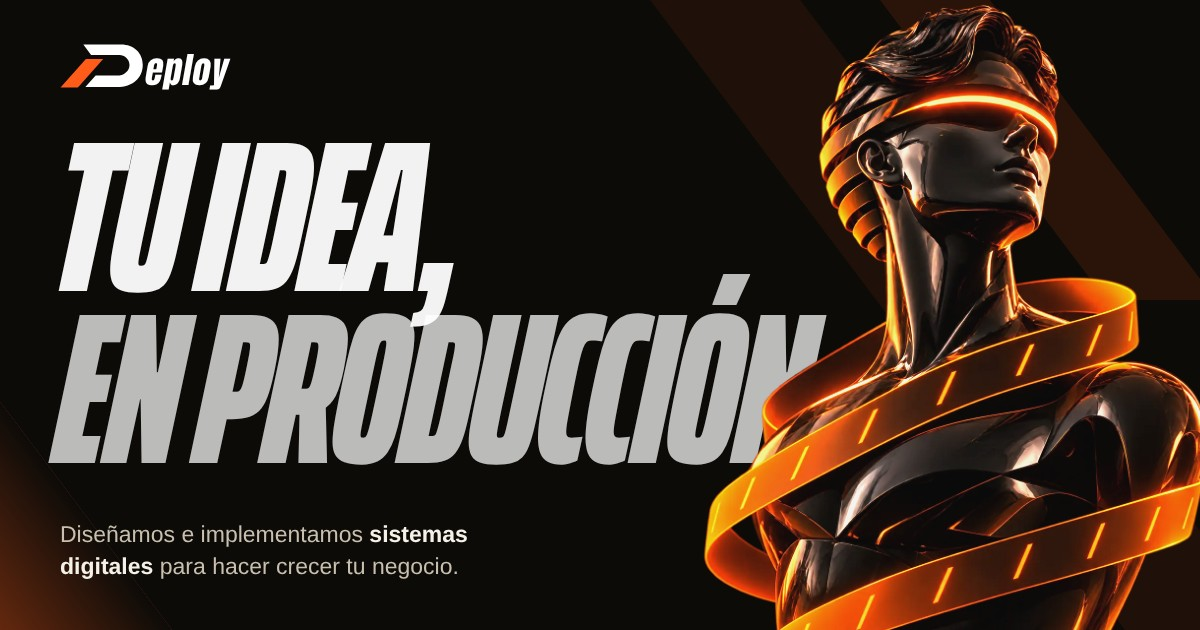
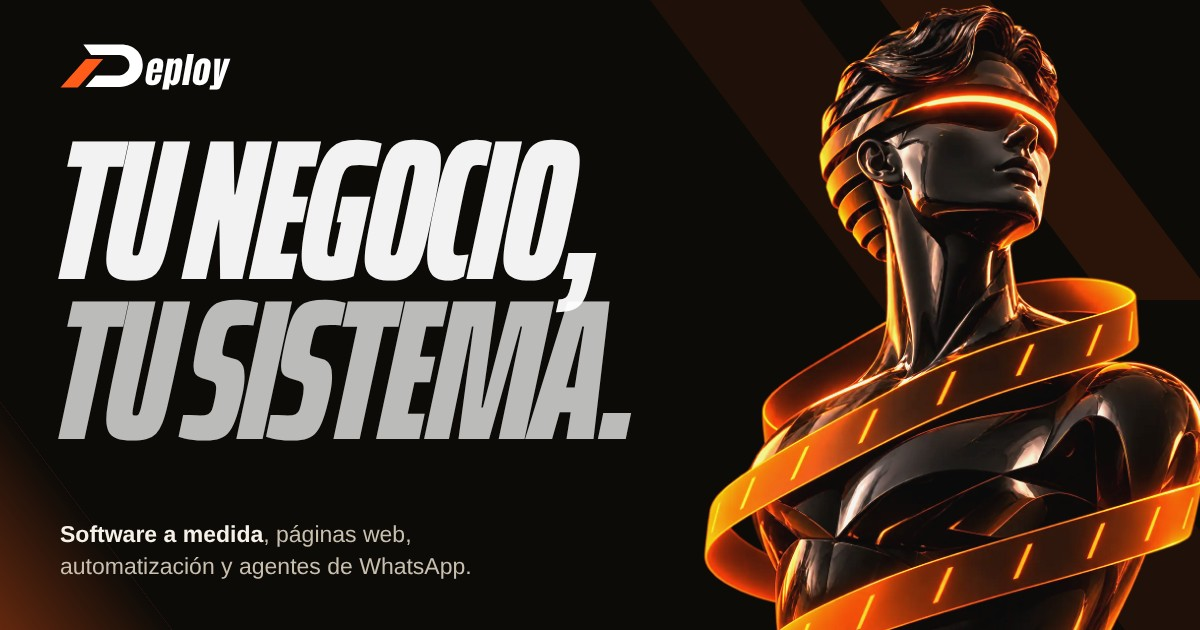
Hero: Tu negocio, tu sistema; imagen para compartir actualizada
Claude-Session: https://claude.ai/code/session_016CR8bjtqut3mFtFLKQPjVK

Changed region(s): [[0.0308, 0.2111, 0.7092, 0.754], [0.0308, 0.8143, 0.4008, 0.9349]]

diff --git a/components/Hero.tsx b/components/Hero.tsx
@@ -56,7 +56,7 @@ export function Hero() {
           transition={{ duration: 0.75, ease, delay: 0.75 }}
           className="block text-white/95"
         >
-          Tu idea,
+          Tu negocio,
         </motion.span>
         <motion.span
           initial="hidden"
@@ -65,10 +65,7 @@ export function Hero() {
           transition={{ duration: 0.75, ease, delay: 0.95 }}
           className="block text-white/75"
         >
-          en
-          <br className="lg:hidden" />
-          <span className="hidden lg:inline"> </span>
-          producción.
+          tu sistema.
         </motion.span>
       </h1>
 
@@ -107,9 +104,8 @@ export function Hero() {
           transition={{ duration: 0.6, ease, delay: 1.35 }}
           className="max-w-[44%] font-body text-[14px] leading-snug text-brand-ink-on-black-soft sm:max-w-md sm:text-lg sm:leading-relaxed lg:max-w-[32rem]"
         >
-          Diseñamos e implementamos{" "}
-          <strong className="font-semibold text-brand-cream">sistemas</strong> digitales para hacer
-          crecer tu negocio.
+          <strong className="font-semibold text-brand-cream">Software a medida</strong>, páginas web,
+          automatización y agentes de WhatsApp.
         </motion.p>
 
         <motion.div
